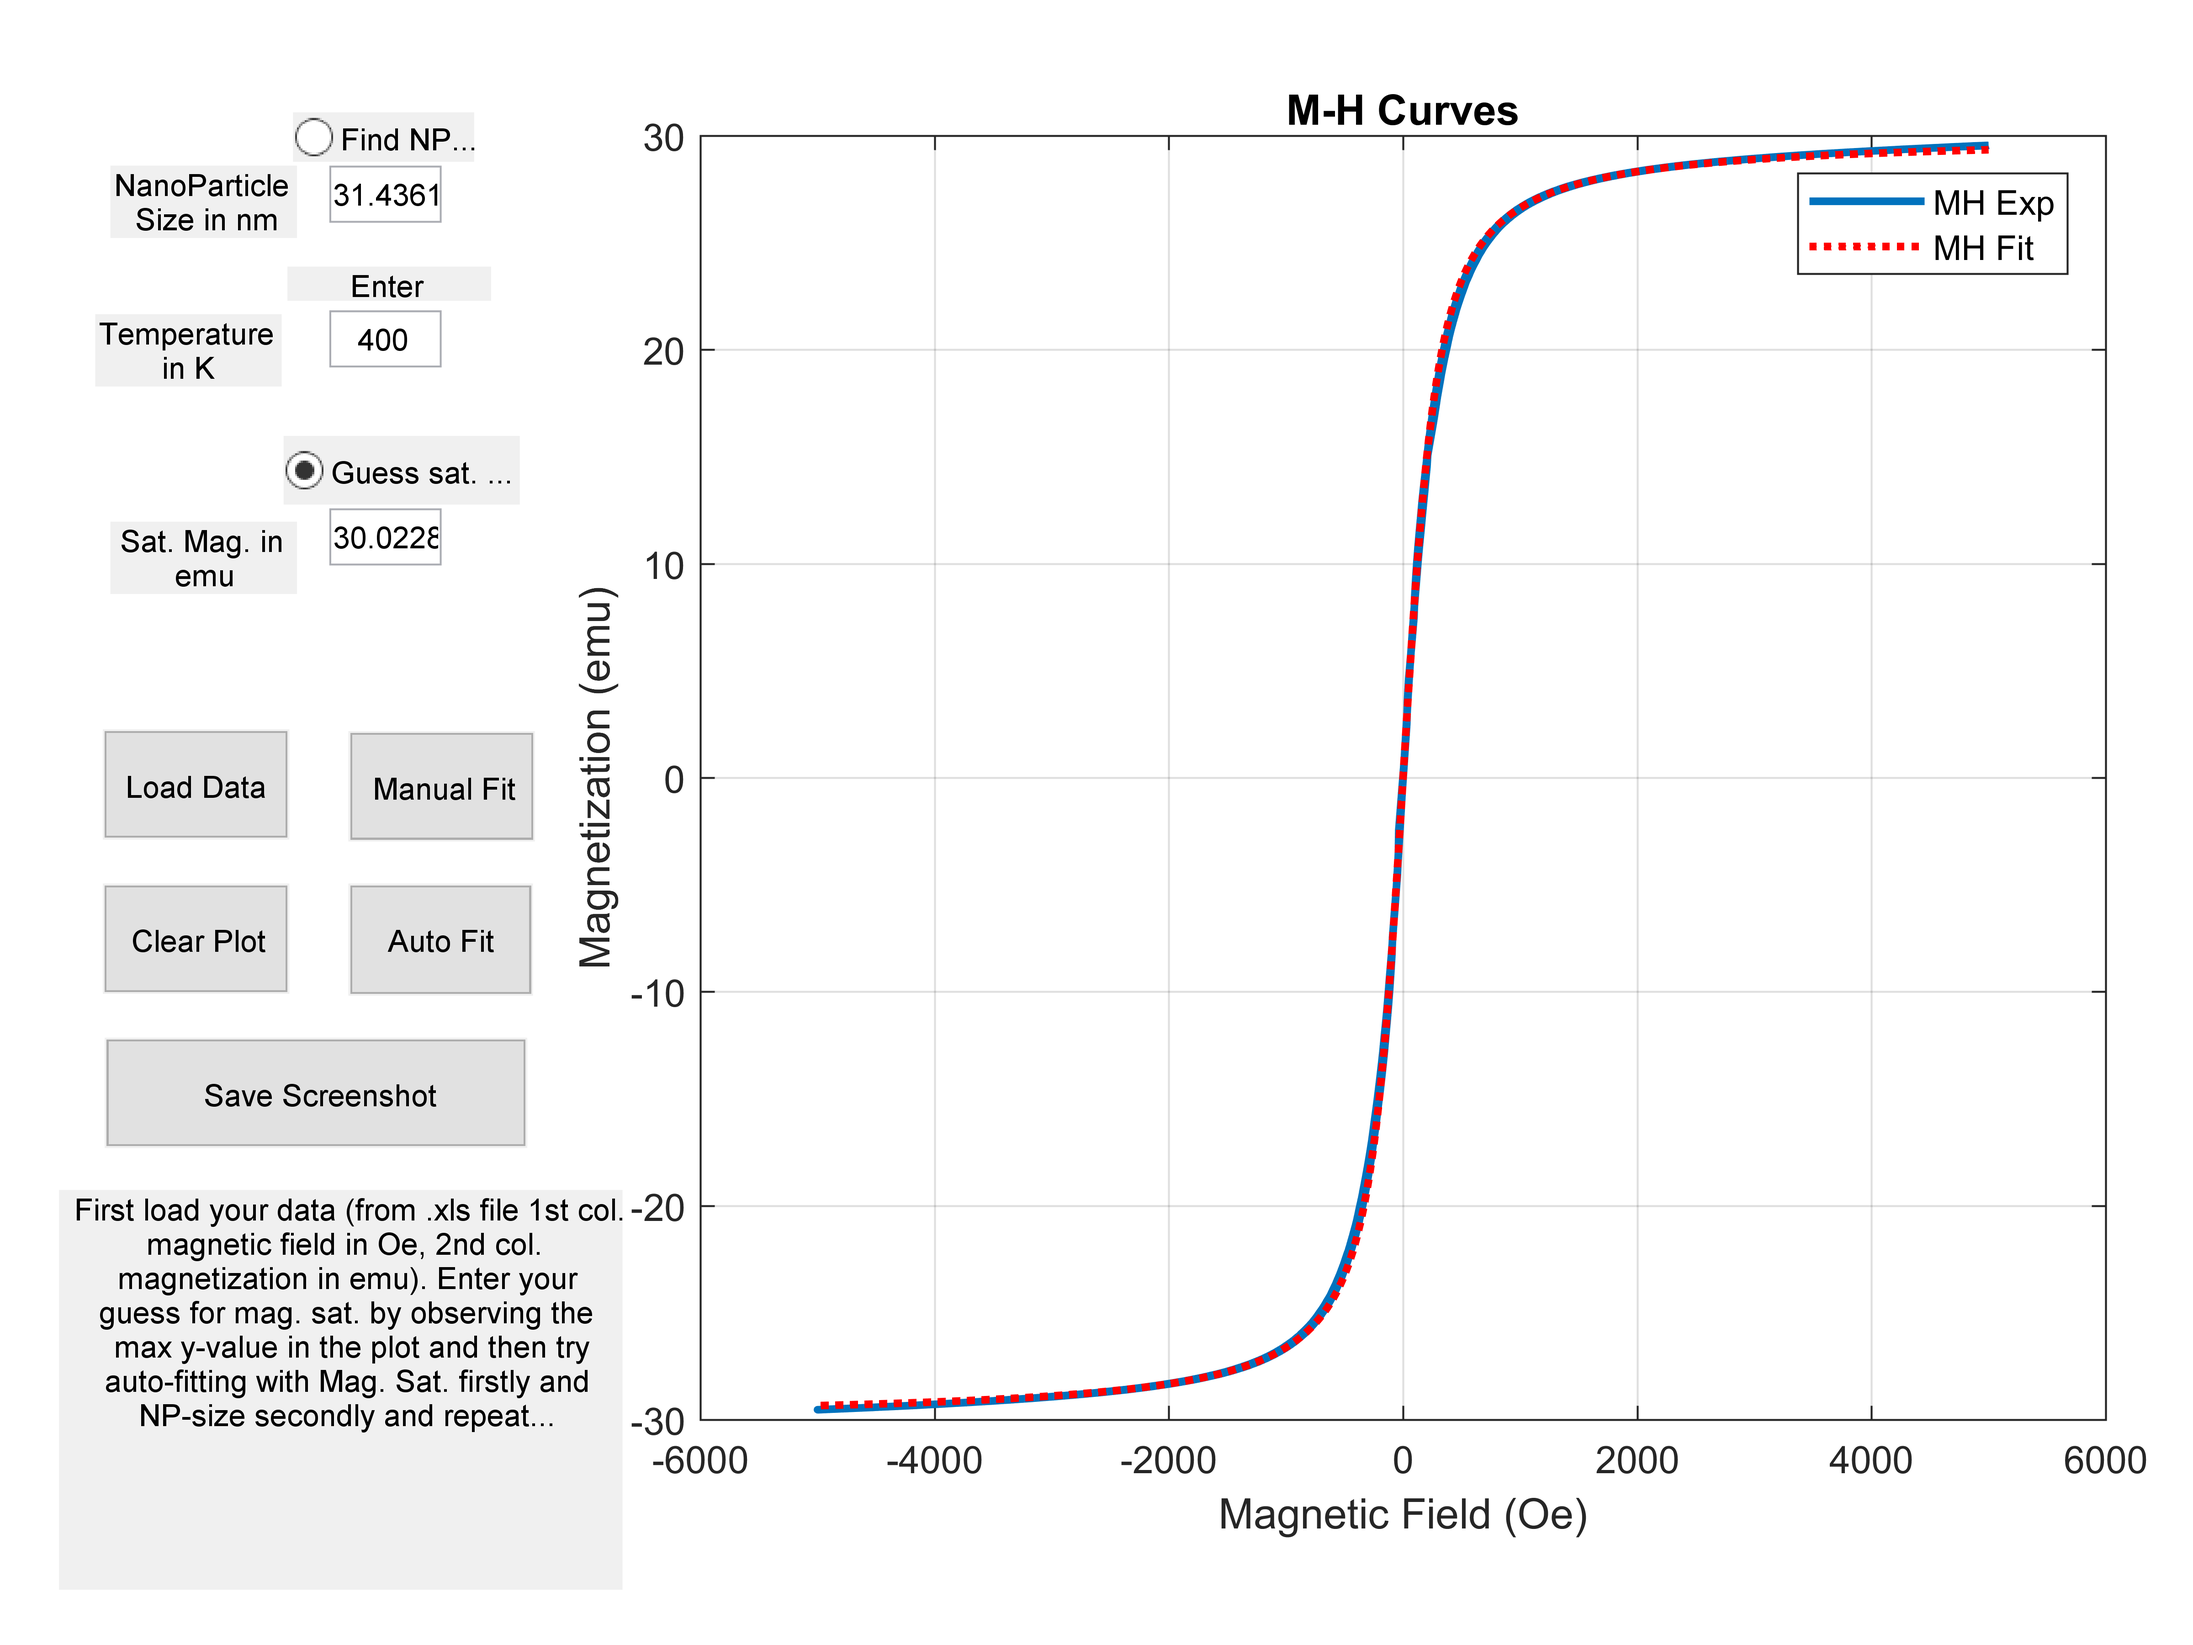
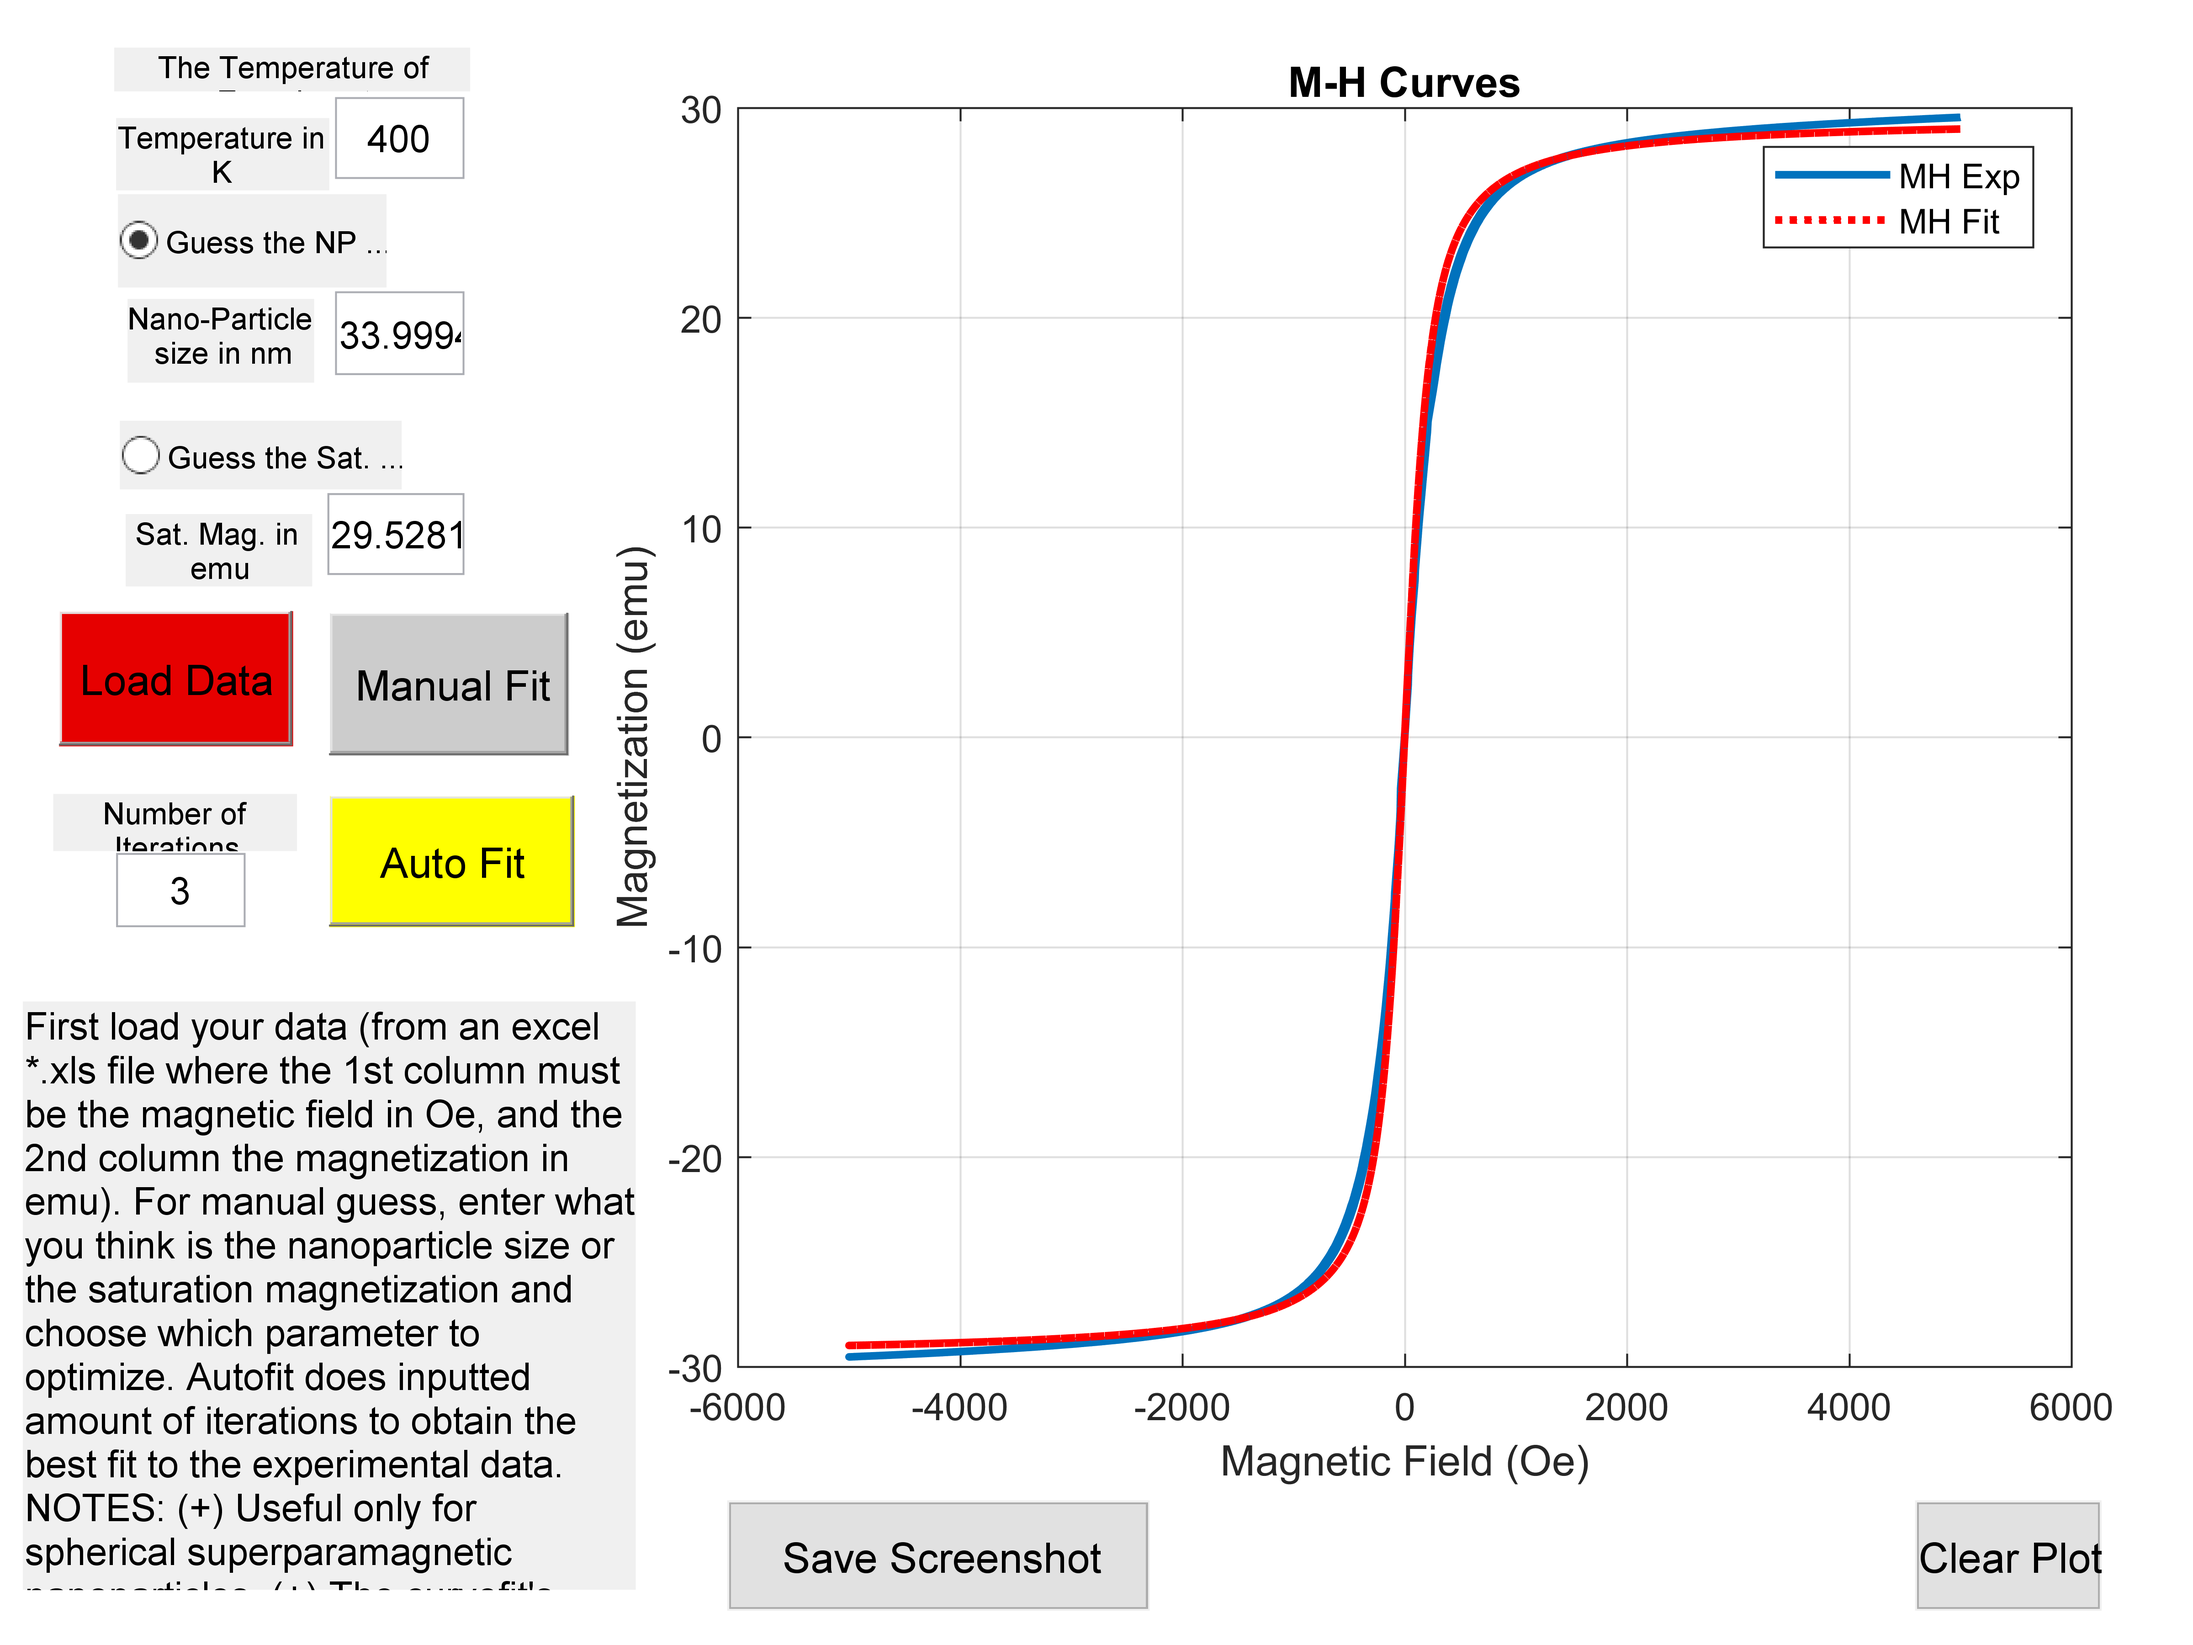
add iteration feature
Added iterations feat to Autofit func

diff --git a/MH_Curve_Fit.m b/MH_Curve_Fit.m
@@ -22,7 +22,7 @@ function varargout = MH_Curve_Fit(varargin)
 
 % Edit the above text to modify the response to help MH_Curve_Fit
 
-% Last Modified by GUIDE v2.5 09-Jun-2018 16:25:11
+% Last Modified by GUIDE v2.5 18-Nov-2021 17:24:41
 
 % Begin initialization code - DO NOT EDIT
 gui_Singleton = 1;
@@ -52,8 +52,7 @@ function MH_Curve_Fit_OpeningFcn(hObject, eventdata, handles, varargin)
 % handles    structure with handles and user data (see GUIDATA)
 % varargin   command line arguments to MH_Curve_Fit (see VARARGIN)
 
-global n H V u k Et x y
-global a T MS NP
+
 
 % initialize the options to some arbitrary values
 set(handles.np_size_io,'String','40');
@@ -64,12 +63,20 @@ handles.Manual_Fit.Enable = 'Inactive';
 handles.Auto_Fit.Enable = 'Inactive';
 handles.Clear_Plot.Enable = 'Inactive';
 
-handles.Usage.String = 'First load your data (from .xls file 1st col. magnetic field in Oe, 2nd col. magnetization in emu). Enter your guess for mag. sat. by observing the max y-value in the plot and then try auto-fitting with Mag. Sat. firstly and NP-size secondly and repeat...';
+handles.Usage.String = ['First load your data (from an excel *.xls file where the 1st column must be' ...
+' the magnetic field in Oe, and the 2nd column the magnetization in emu). For manual guess, enter what' ... 
+' you think is the nanoparticle size or the saturation magnetization and choose which parameter to optimize.'... 
+' Autofit does inputted amount of iterations to obtain the best fit to the experimental data.' ...
+' NOTES: (+) Useful only for spherical superparamagnetic nanoparticles. (+) The curvefit''s results are displayed'...
+' in the same (guess) textboxes. You can ignore any warning by Matlab about local minimums.'];
 xlabel(handles.GraphAxes,'Magnetic Field (Oe)');
 ylabel(handles.GraphAxes,'Magnetization (emu)');
 title(handles.GraphAxes,'M-H Curves');
 handles.GraphAxes.XTick = [];
 handles.GraphAxes.YTick = [];
+
+% Default manual mode
+set(handles.Find_Mag_Sat, 'Value', 1)
 
 % Choose default command line output for MH_Curve_Fit
 handles.output = hObject;
@@ -173,11 +180,11 @@ guidata(hObject, handles);
 handles.fullFileName = strcat(handles.path, handles.fileName);
 [x, y] = ReadExcel(handles.fullFileName,1,2);
 guidata(hObject, handles);
-plot (handles.GraphAxes, x,y,'LineWidth',2);
-xlabel(handles.GraphAxes,'Magnetic Field (Oe)');
-ylabel(handles.GraphAxes,'Magnetization (emu)');
-title(handles.GraphAxes,'M-H Curves');
-legend(handles.GraphAxes,'Experiment','Fitting');
+plot (handles.GraphAxes, x, y, 'LineWidth', 2);
+xlabel(handles.GraphAxes, 'Magnetic Field (Oe)');
+ylabel(handles.GraphAxes, 'Magnetization (emu)');
+title(handles.GraphAxes, 'M-H Curves');
+legend(handles.GraphAxes, 'Experiment','Curve Fitting');
 handles.GraphAxes.YGrid = 'On';
 handles.GraphAxes.XGrid = 'On';
 
@@ -207,7 +214,6 @@ function Manual_Fit_Callback(hObject, eventdata, handles)
 cla(handles.GraphAxes);
 global n H V u k Et x y
 global a T MS 
-[x, y] = ReadExcel(handles.fullFileName,1,2);
 guidata(hObject, handles);
 %plot (handles.GraphAxes, x,y);
 a = str2double(get(handles.np_size_io, 'String'));
@@ -257,29 +263,32 @@ function Auto_Fit_Callback(hObject, eventdata, handles)
 % hObject    handle to Auto_Fit (see GCBO)
 % eventdata  reserved - to be defined in a future version of MATLAB
 % handles    structure with handles and user data (see GUIDATA)
-global n H V u k Et x y
+global y
 global a T MS 
 global  max_sat Saturation
+global NumIter
 
-[x, y] = ReadExcel(handles.fullFileName,1,2);
 guidata(hObject, handles);
 % plot (handles.GraphAxes, x,y);
 a = str2double(get(handles.np_size_io, 'String'));
 T = str2double(get(handles.temperature_io, 'String'));
 MS = str2double(get(handles.magnetic_saturation_io, 'String'));
-
-if handles.Find_Mag_Sat.Value ==1
-    max_sat = max(y); % initial guess
-    Saturation = lsqnonlin(@AutoFit,max_sat)
-    set(handles.magnetic_saturation_io, 'String',num2str(Saturation));
-    Manual_Fit_Callback(hObject, eventdata, handles)
-elseif handles.Find_NP_size.Value ==1
-    NP_guess = a; % initial guess
-    NP_size_estimate = lsqnonlin(@AutoFit2,NP_guess);
-    set(handles.np_size_io, 'String',num2str(NP_size_estimate));
-    Manual_Fit_Callback(hObject, eventdata, handles)
-else
-    errordlg('Select one property to guess (NP size or sat. magnetization)','What to guess?')
+NumIter = str2double(get(handles.NumIterations, 'String'));
+for i=1:NumIter    
+    if handles.Find_Mag_Sat.Value == 1
+        max_sat = max(y); % initial guess is the maximum of experimental data
+        Saturation = lsqnonlin(@AutoFit, max_sat, [0 500]);
+        set(handles.magnetic_saturation_io, 'String',num2str(Saturation));
+        Manual_Fit_Callback(hObject, eventdata, handles)
+        set(handles.Find_Mag_Sat, 'Value',0)
+        set(handles.Find_NP_size, 'Value',1)
+    elseif handles.Find_NP_size.Value == 1
+        NP_size_estimate = lsqnonlin(@AutoFit2, a, [0 999]);
+        set(handles.np_size_io, 'String', num2str(NP_size_estimate));
+        Manual_Fit_Callback(hObject, eventdata, handles)
+        set(handles.Find_NP_size, 'Value', 0)
+        set(handles.Find_Mag_Sat, 'Value', 1)
+    end
 end
 
 
@@ -293,14 +302,14 @@ H=x;
 V=4/3*pi*(sizeNP/2*10^-7)^3; % Volume of a NP from diameter(sizeNP)
 u=V*Ms;
 k=1.3806504*10^-16; % Boltzmann's constant
-Et=k*Temp; % thermal energy k*T
+Et=k*Temp; % Thermal energy k*T
 angle = zeros(n,1);
 Mt = zeros(n,1);
 for i=1:n
 angle(i,1)=(u/Et)*H(i);
 Mt(i,1)=Ms.*langev(angle(i,1));
 end
-res = Mt - y; % trying to minimize the the difference between exp. and fit
+res = Mt - y; % trying to minimize the difference between the exp. and fit
 
 function res = AutoFit2(sizeNP)
 global x y k V T MS
@@ -313,10 +322,12 @@ k=1.3806504*10^-16; % Boltzmann's constant
 Et=k*Temp;
 angle = zeros(n,1);
 Mt = zeros(n,1);
+
 for i=1:n
-angle(i,1)=(u/Et)*H(i);
-Mt(i,1)=MS.*langev(angle(i,1));
+    angle(i,1) = (u/Et)*H(i);
+    Mt(i,1)= MS.*langev(angle(i,1));
 end
+
 res = Mt - y; % trying to minimize the the difference between exp. and fit
 
 
@@ -352,3 +363,26 @@ if handles.Find_Mag_Sat.Value == 1
     set(handles.Find_NP_size, 'Value',0)
 end
 % Hint: get(hObject,'Value') returns toggle state of Find_Mag_Sat
+
+
+
+function NumIterations_Callback(hObject, eventdata, handles)
+% hObject    handle to NumIterations (see GCBO)
+% eventdata  reserved - to be defined in a future version of MATLAB
+% handles    structure with handles and user data (see GUIDATA)
+
+% Hints: get(hObject,'String') returns contents of NumIterations as text
+%        str2double(get(hObject,'String')) returns contents of NumIterations as a double
+
+
+% --- Executes during object creation, after setting all properties.
+function NumIterations_CreateFcn(hObject, eventdata, handles)
+% hObject    handle to NumIterations (see GCBO)
+% eventdata  reserved - to be defined in a future version of MATLAB
+% handles    empty - handles not created until after all CreateFcns called
+
+% Hint: edit controls usually have a white background on Windows.
+%       See ISPC and COMPUTER.
+if ispc && isequal(get(hObject,'BackgroundColor'), get(0,'defaultUicontrolBackgroundColor'))
+    set(hObject,'BackgroundColor','white');
+end
